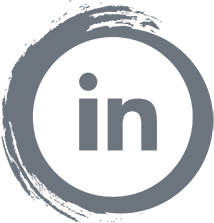
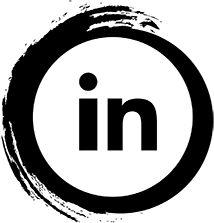
повтор комита

diff --git a/front/src/assets/css/style.css b/front/src/assets/css/style.css
@@ -32,11 +32,11 @@
     font-family: "LeagueSpartan-Bold";
     src: url("./../fonts/LeagueSpartan-Bold.otf") format("opentype");
 }
+
 @font-face {
     font-family: "RopaSans-Regular";
     src: url("./../fonts/RopaSans-Regular.ttf") format("opentype");
 }
-
 
 .el-button:focus, .el-button:hover {
     color: red;
@@ -58,21 +58,8 @@
     background-color: #d3dce6;
 }
 
-
-.ml-auto {
-    /*background-color: #42b983;*/
-}
-
-.dropdown-toggle {
-
-}
-
 .carousel {
     font-family: "Bebas Neue-Bold", sans-serif;
-}
-
-.background {
-    /*background-color: black;*/
 }
 
 .form-control-sm {
@@ -92,7 +79,7 @@
 }
 
 .nav-link:hover {
-    color: #6c757d !important;
+    color: black !important;
 }
 
 .navbar {
@@ -104,26 +91,17 @@
     padding: 0 21%;
 }
 
-.navbar:hover {
-    background: linear-gradient(180deg, #3f4047, rgba(0, 0, 0, 0));
+.navbar_2 {
+    background-color: transparent !important;
+    width: 100%;
+    height: 100px;
+    position: fixed;
+    z-index: 1000;
+    /*padding: 0 21%;*/
 }
 
-.navbar-collapse:after {
-    /*content: "";*/
-    /*display: block;*/
-    /*width: 100%;*/
-    /*height: 100%;*/
-    /*position: absolute;*/
-    /*top: 0;*/
-    /*left: 0;*/
-    /*background: transparent;*/
-    /*background-image: linear-gradient(180deg, #ffffff, #000000);*/
-    /*opacity: 0.9;*/
-    font-size: 10pt;
-}
-
-div {
-    /*background-color: transparent !important;*/
+.navbar {
+    background: linear-gradient(180deg, black, rgba(0, 0, 0, 0));
 }
 
 .nav-item {
@@ -132,28 +110,21 @@ div {
 }
 
 .el-icon-user:hover {
-    color: #6c757d !important;
+    color: black !important;
 }
 
 .el-icon-goods:hover {
-    color: #6c757d !important;
+    color: black !important;
 }
 
 .mr-sm-3 {
     font-family: "FontAwesome", sans-serif;
     font-size: 12pt;
-    /*background-color: transparent !important;*/
     color: white !important;
-
 }
 
 .mr-sm-3:focus::placeholder {
-    color: rgba(67, 67, 67, 0.5);
-}
-
-.mr-sm-3::placeholder {
-    /*color: #292828;*/
-
+    color: rgba(67, 67, 67, 0.4);
 }
 
 .mr-sm-3:focus {
@@ -161,32 +132,6 @@ div {
     box-shadow: none !important;
     border: 1px solid white;
 }
-
-.dropdown menu {
-    /*font-family: "TRY Clother Black", sans-serif;*/
-}
-
-/*.navbar-collapse {*/
-/*    justify-content: center;*/
-/*    display: flex;*/
-/*    flex-grow: unset;*/
-/*}*/
-
-/*.navbar-brand {*/
-/*    padding-left: 550px;*/
-/*}*/
-/*body::-webkit-scrollbar {*/
-/*    width: 0.8em;*/
-/*}*/
-
-/*body::-webkit-scrollbar-track {*/
-/*    box-shadow: inset 0 0 10px rgba(0, 0, 0, 255);*/
-/*}*/
-
-/*body::-webkit-scrollbar-thumb {*/
-/*    background-color: white;*/
-/*    border-radius: 100px;*/
-/*}*/
 
 .social-icon {
     font-family: "Socialico-Regular";
@@ -202,55 +147,31 @@ div {
     font-size: 40pt;
 }
 
-/*.preloader {*/
-/*    position: fixed !important;*/
-/*    left: 0 !important;*/
-/*    top: 0 !important;*/
-/*    width: 100% !important;*/
-/*    height: 100% !important;*/
-/*    background: black !important;*/
-/*    z-index: 999999 !important;*/
-/*}*/
-/*.loader {*/
-/*    width: 75px !important;*/
-/*    height: 75px !important;*/
-/*    border: 10px solid white !important;*/
-/*    border-radius: 50%;*/
-/*    border-top-color: red !important;*/
-/*    image-orientation: from-image;*/
-/*    position: absolute;*/
-/*    left: 50%;*/
-/*    top: 50%;*/
-/*    color: aliceblue;*/
-/*    font-family: "Bebas Neue-Bold", sans-serif;*/
-/*    font-size: 50pt;*/
-
-/*}*/
 .el-radio-button__orig-radio:checked + .el-radio-button__inner {
-    background-color: #696969 !important;
-    border-color: #696969 !important;
-    box-shadow: #696969 !important;
+    background-color: #000000 !important;
+    border-color: #000000 !important;
+    box-shadow: #000000 !important;
 }
 
 .el-radio-button__inner:hover {
-    color: black !important;
+    color: gray !important;
 }
 
 .el-radio-button__orig-radio:checked + .el-radio-button__inner {
-    box-shadow: 1px 0 0 0 #696969 !important;
+    box-shadow: 1px 0 0 0 #000000 !important;
 }
 
 .el-button--primary {
     outline: 0 !important;
-    background-color: darkgray !important;
-    border-color: darkgray !important;
+    background-color: #000000 !important;
+    border-color: #000000 !important;
     justify-content: center !important;
     display: flex !important;
     vertical-align: center !important;
 }
 
 .el-button--primary:hover {
-    background-color: #696969 !important;
+    background-color: #000000 !important;
 }
 
 .el-carousel__item:nth-child(2n) {

diff --git a/front/src/components/Header.vue b/front/src/components/Header.vue
@@ -1,6 +1,38 @@
 <template>
     <div>
-        <b-navbar toggleable="lg" type="dark" variant="secondary" class="navbar" sticky>
+        <b-navbar toggleable="lg" type="dark" variant="secondary" class="hidden-md-and-up" sticky>
+            <b-navbar-brand href="#">
+                <img src="../assets/Mercedes-Benz/merslogo.png" height="50" width="50"/>
+            </b-navbar-brand>
+            <b-navbar-toggle target="nav-collapse"></b-navbar-toggle>
+            <b-collapse id="nav-collapse" is-nav>
+                <b-navbar-nav>
+                    <b-nav-item @click="$router.push({name:'Main'})" href="#">HOME</b-nav-item>
+                </b-navbar-nav>
+                <b-navbar-nav>
+                    <b-nav-item @click="$router.push({name:'Cars'})" href="#">CARS</b-nav-item>
+                </b-navbar-nav>
+                <b-navbar-nav>
+                    <b-nav-item href="#">BENZ WORLD</b-nav-item>
+                </b-navbar-nav>
+                <b-navbar-nav class="ml-auto">
+                    <b-nav-form>
+                        <b-form-input size="sm" class="mr-sm-3" placeholder="Search"></b-form-input>
+                    </b-nav-form>
+                    <b-nav-item>
+                        <el-button circle plain icon="el-icon-goods"
+                                   style="border: 0 solid; background: none; font-size: 1em; outline: 0 !important; touch-action: auto;color: white">
+                        </el-button>
+                    </b-nav-item>
+                    <b-nav-item>
+                        <el-button v-b-modal.login icon="el-icon-user"
+                                   style="border: 0 solid; background: none; font-size: 1em; outline: 0 !important; color: white;">
+                        </el-button>
+                    </b-nav-item>
+                </b-navbar-nav>
+            </b-collapse>
+        </b-navbar>
+        <b-navbar toggleable="lg" type="dark" variant="secondary" class="hidden-md-and-down" sticky>
             <b-navbar-brand href="#">
                 <img src="../assets/Mercedes-Benz/merslogo.png" height="50" width="50"/>
             </b-navbar-brand>
@@ -86,7 +118,7 @@
                 </p>
             </el-col>
         </el-row>
-        <el-row  data-aos="fade-up" type="flex" justify="center">
+        <el-row data-aos="fade-up" type="flex" justify="center">
             <el-col data-aos-delay="400" :lg="14" style="font-family: 'Bebas Neue-Regular'; padding: 20px 0 50px 0">
                 <p>
                     To the company, sustainability means creating value for all stakeholders on a lasting basis:
@@ -123,7 +155,7 @@
                 console.log(window.screenY)
             }
         },
-          created() {
+        created() {
             AOS.init({disable: ""});
         },
     }

diff --git a/front/src/components/Footer.vue b/front/src/components/Footer.vue
@@ -9,13 +9,9 @@
                     <img src="../assets/SocIcon/Twitter.png" alt="" width="50" height="50">
                     <img src="../assets/SocIcon/Linkden.png" alt="" width="50" height="50">
                     <img src="../assets/SocIcon/WatsApp.png" alt="" width="50" height="50">
-<!--                    <span class="social-icon-plus" style="color: #f00075">i</span>-->
-<!--                    <span class="social-icon" style="color: #d6492f">g</span>-->
-<!--                    <span class="social-icon si-f">f</span>-->
-<!--                    <span class="social-icon" style="color: #ff0000">x</span>-->
                 </el-col>
             </el-row>
-            <el-row type="flex" justify="center" class="hidden-md-and-up" style="font-size: 10pt; color: #6c757d !important;    ">
+            <el-row type="flex" justify="center" class="hidden-md-and-up" style="font-size: 10pt; color: black !important;    ">
                 <el-col :lg="14">
                     <p style="text-align: center; font-family: 'Bebas Neue-Bold'">
                         The first Mercedes-Benz brand name vehicles were produced in 1926, following the merger of Karl
@@ -27,7 +23,7 @@
             </el-row>
             <el-row type="flex" justify="center" class="hidden-sm-and-down">
                 <el-col :lg="14">
-                    <p style="text-align: center; font-family: 'Bebas Neue-Bold'; color: #6c757d">
+                    <p style="text-align: center; font-family: 'Bebas Neue-Bold'; color: black">
                         The first Mercedes-Benz brand name vehicles were produced in 1926, following the merger of Karl
                         Benz's and Gottlieb Daimler's companies into the Daimler-Benz company on 28 June of the same
                         year. Gottlieb Daimler was born on 17 March 1834 in Schorndorf.
@@ -37,12 +33,12 @@
             </el-row>
             <el-row type="flex" justify="center" class="hidden-md-and-up" style="font-size: 10pt">
                 <el-col :lg="24">
-                    <p style="text-align: center; font-family: 'Bebas Neue-Bold'; color: #6c757d">&COPY; 2020. Mercedes-Benz</p>
+                    <p style="text-align: center; font-family: 'Bebas Neue-Bold'; color: black">&COPY; 2020. Mercedes-Benz</p>
                 </el-col>
             </el-row>
             <el-row type="flex" justify="center" class="hidden-sm-and-down">
                 <el-col :lg="24">
-                    <p style="text-align: center; font-family: 'Bebas Neue-Bold'; color: #6c757d">&COPY; 2020. Mercedes-Benz</p>
+                    <p style="text-align: center; font-family: 'Bebas Neue-Bold'; color: black">&COPY; 2020. Mercedes-Benz</p>
                 </el-col>
             </el-row>
         </el-col>

diff --git a/front/public/index.html b/front/public/index.html
@@ -1,6 +1,6 @@
 <!DOCTYPE html>
 <html lang="en">
-  <head>
+<head>
     <meta charset="utf-8">
     <meta http-equiv="X-UA-Compatible" content="IE=edge">
     <meta name="viewport" content="width=device-width,initial-scale=1.0">
@@ -8,21 +8,15 @@
     <title><%= htmlWebpackPlugin.options.title %></title>
     <link rel="stylesheet" href="https://fonts.googleapis.com/css?family=Roboto:100,300,400,500,700,900">
     <link rel="stylesheet" href="https://cdn.jsdelivr.net/npm/@mdi/font@latest/css/materialdesignicons.min.css">
-<!--    <link rel="stylesheet" href="../src/assets/css/style.css">-->
     <link href="https://unpkg.com/aos@2.3.1/dist/aos.css" rel="stylesheet">
-
-  </head>
-  <body>
-    <noscript>
-      <script src="https://unpkg.com/aos@2.3.1/dist/aos.js"></script>
-
-      <script src="https://unpkg.com/element-ui/lib/index.js"></script>
-      <strong>We're sorry but <%= htmlWebpackPlugin.options.title %> doesn't work properly without JavaScript enabled. Please enable it to continue.</strong>
-    </noscript>
-    <div id="app"></div>
-    <!-- built files will be auto injected -->
-<!--  <div class="preloader">-->
-<!--    <div class="loader"><img src="../src/assets/Mercedes-Benz/preolader.png" alt="">M</div>-->
-<!--  </div>-->
-  </body>
+</head>
+<body>
+<noscript>
+    <script src="https://unpkg.com/aos@2.3.1/dist/aos.js"></script>
+    <script src="https://unpkg.com/element-ui/lib/index.js"></script>
+    <strong>We're sorry but <%= htmlWebpackPlugin.options.title %> doesn't work properly without JavaScript enabled.
+        Please enable it to continue.</strong>
+</noscript>
+<div id="app"></div>
+</body>
 </html>

diff --git a/front/src/components/Modal/Login.vue b/front/src/components/Modal/Login.vue
@@ -92,8 +92,4 @@
     h2 {
         font-family: "TRY Clother Black", sans-serif;
     }
-
-    /*.el-button--primary {*/
-    /*    !*font-family: "TRY Clother Black";*!*/
-    /*}*/
 </style>
